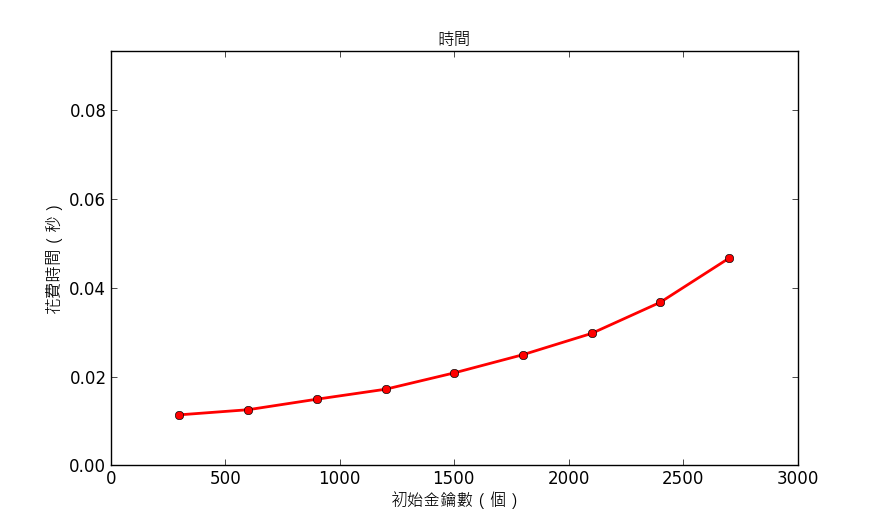
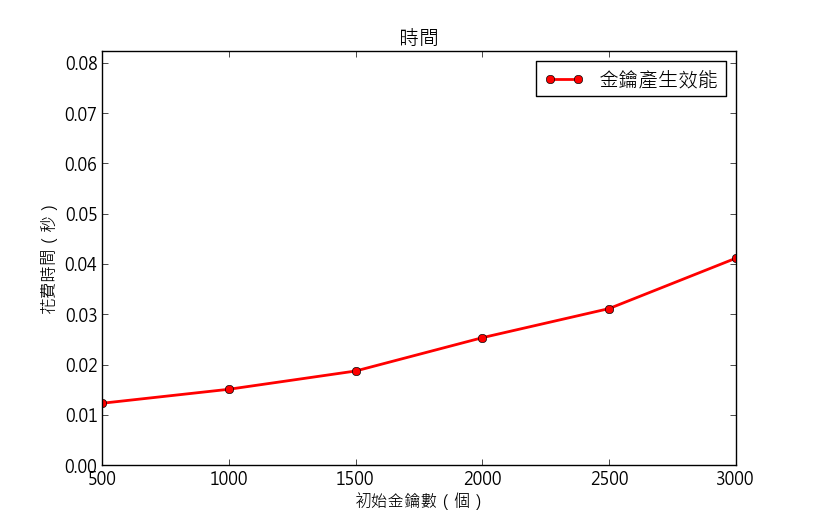
fix code

diff --git a/medical_server.py b/medical_server.py
@@ -172,8 +172,10 @@ def main():
 		print '病患入院無線感測節點配置階段 - 花費時間：%f 秒' % time_test['WSN_setup_phase']
 
 	def run():
-		scope = input("請輸入金鑰數上限，例如 3000：")
-		key_n = input("請輸入每次產生幾組金鑰，例如 300：")
+		scope = input("請輸入目標金鑰數上限，例如 3000：")
+		key_n = input("請輸入每回產生幾組金鑰，例如 500：")
+		floor_n = input("請輸入醫療大樓樓層總數（固定），例如 10：")
+		wsn_n = input("請輸入無線感測節點總數（固定），例如 1000：")
 		
 		print "請耐心等待，圖片產生中..."
 		
@@ -187,7 +189,7 @@ def main():
 		
 		for i in range(1, max_run):
 			x = spacing * i
-			ans = run_once(7, x, 1000)
+			ans = run_once(floor_n, x, wsn_n)
 			y = ans['key_server_gen_key_phase']
 			chart_data_x.append(x)
 			chart_data_y.append(y) 
@@ -198,8 +200,8 @@ def main():
 		from matplotlib import rcParams
 		rcParams['font.family'] = 'Microsoft JhengHei'
 		
-		plt.figure(figsize=(8,4))
-		plt.plot(chart_data_x, chart_data_y, label=u"金鑰產生效率", color="blue", linewidth=2, marker='o', linestyle='-')
+		plt.figure(figsize=(8,5))
+		plt.plot(chart_data_x, chart_data_y, label=u"金鑰產生效能", color="red", linewidth=2, marker='o', linestyle='-')
 		plt.xlabel(u"初始金鑰數（個）")
 		plt.ylabel(u"花費時間（秒）")
 		plt.title(u"時間")
